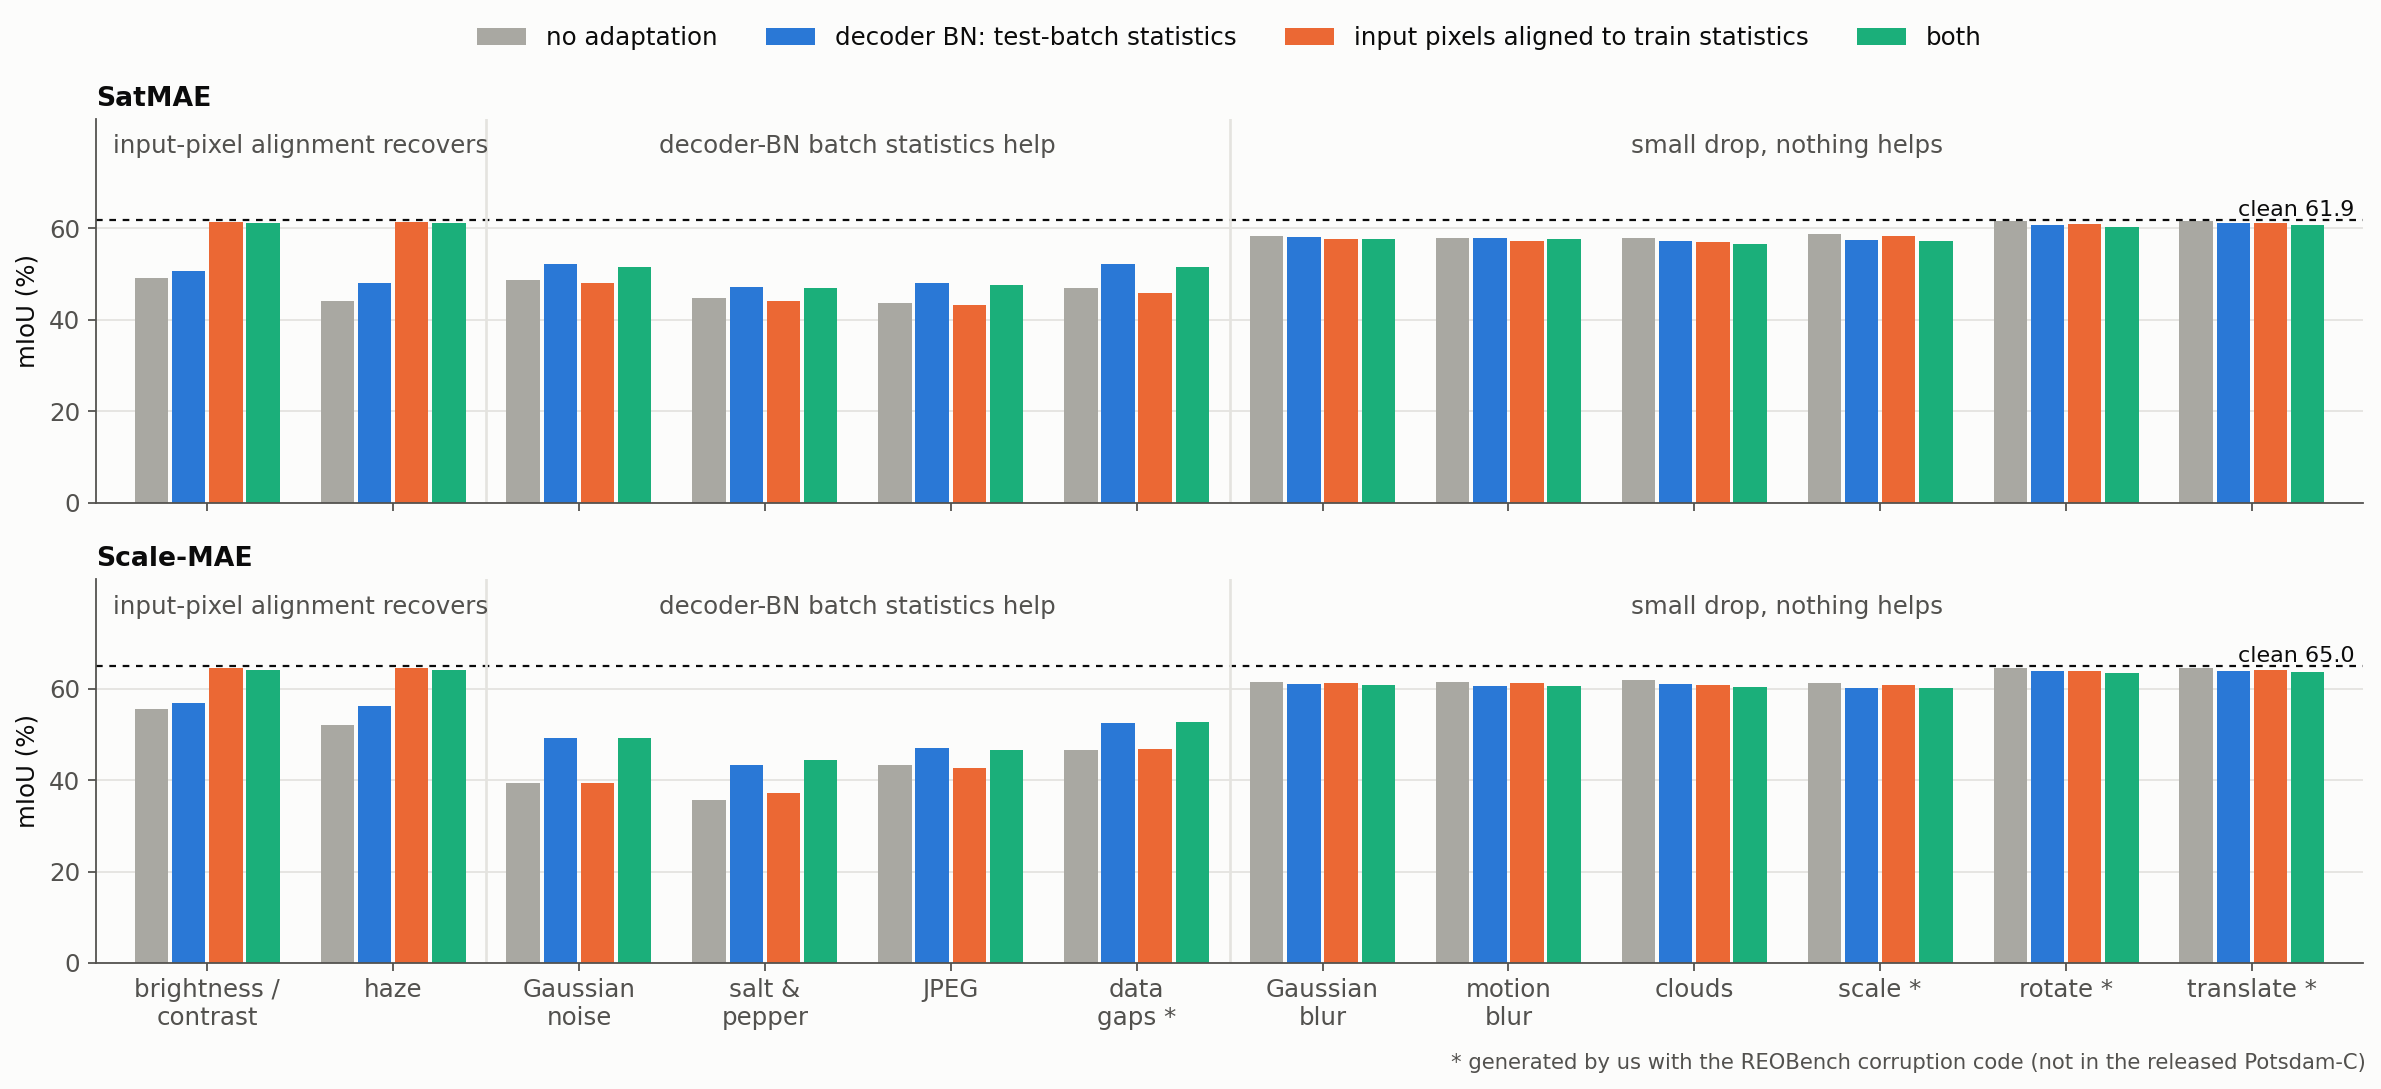
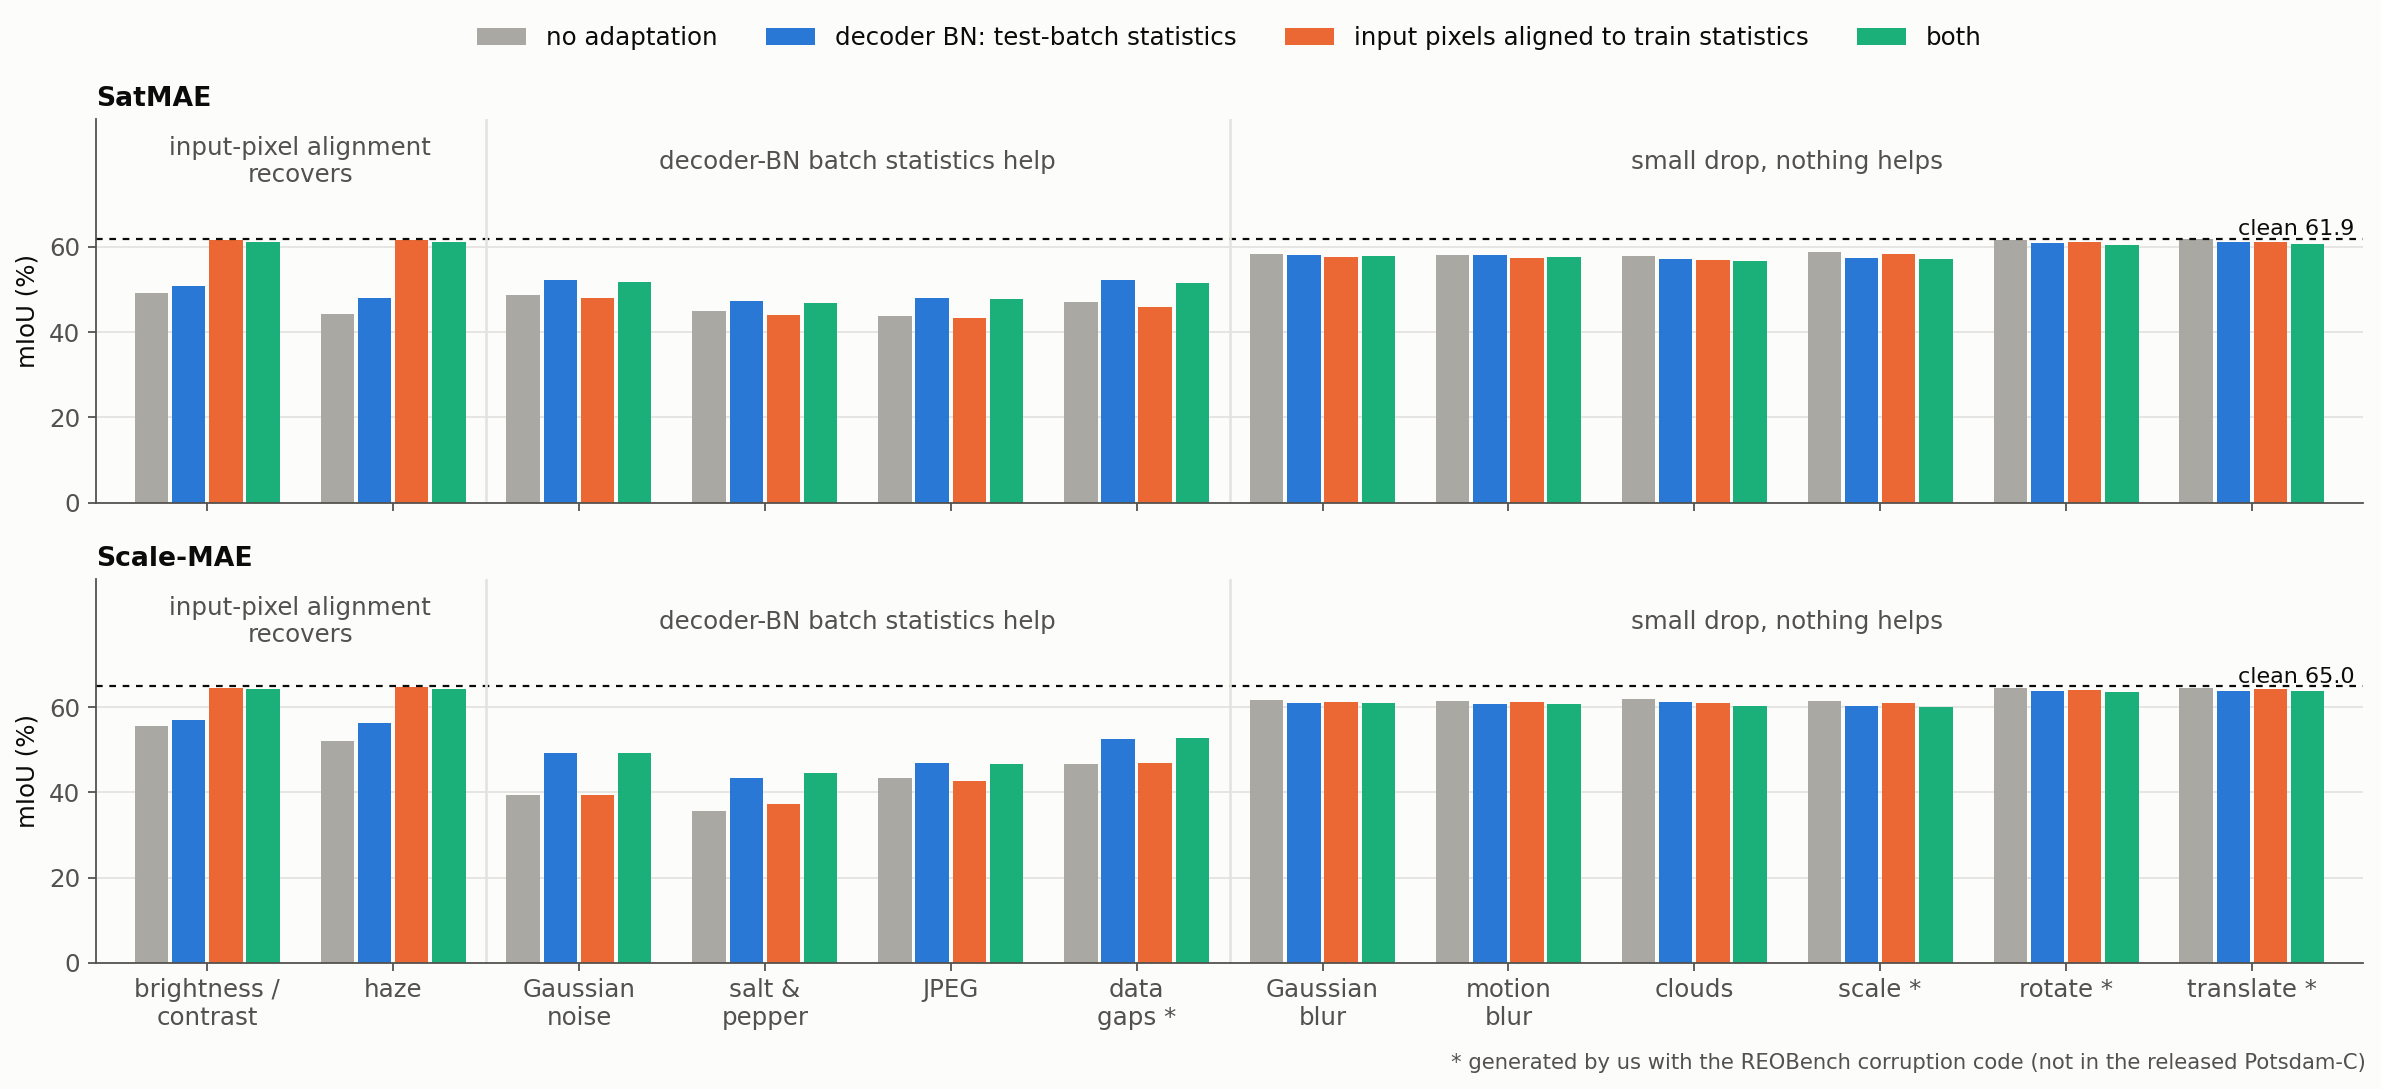
Midterm doc: re-check numbers against sources before the part 2 slides
T10 pair table uses unrounded differences (matches fig6) and gains the
Scale-MAE reference row; notes added to T1, T5, T9, T12 and section 6;
fig9 and fig10 redrawn to fix overlapping labels.

diff --git a/repro/scripts/analysis/plot_midterm_figs.py b/repro/scripts/analysis/plot_midterm_figs.py
@@ -5,7 +5,7 @@
   fig3_signals.png        : confidence vs accuracy and flip vs accuracy, three backbones on RESISC45-C
   fig4_em_phases.png      : entropy minimisation over 2,000 steps, tent vs DSBR: accuracy and predicted classes (T9)
   fig5_headroom.png       : per corruption: as is -> head-input standardization -> head re-fitted with labels -> clean (T12)
-  fig6_pairs.png          : satellite minus generic pretraining for the six matched pairs (T10)
+  fig6_pairs.png          : satellite minus generic pretraining for the seven pairs of T10
   fig7_blur_aug.png       : drop under Gaussian blur, backbones with / without blur augmentation (T7)
   fig8_corruptions.png    : one AID image under the 12 REOBench corruptions, grouped by acquisition stage (T6)
   fig9_seg.png            : Potsdam mIoU per corruption (12) for none / BN / input / input + BN alignment (T5)
@@ -275,7 +275,7 @@ def fig8(cls="Port", sev=3):
 
 def fig9():
     # 12 corruptions (8 released + 4 we generated), grouped by what responds
-    groups = (("input-pixel alignment recovers", (("brightness_contrast", "brightness /\ncontrast"), ("haze", "haze"))),
+    groups = (("input-pixel alignment\nrecovers", (("brightness_contrast", "brightness /\ncontrast"), ("haze", "haze"))),
               ("decoder-BN batch statistics help", (("gaussian_noise", "Gaussian\nnoise"), ("salt_and_pepper_noise", "salt &\npepper"),
                                       ("compression_artifacts", "JPEG"), ("data_gaps", "data\ngaps *"))),
               ("small drop, nothing helps", (("gaussian_blur", "Gaussian\nblur"), ("motion_blur", "motion\nblur"), ("clouds", "clouds"),
@@ -298,10 +298,10 @@ def fig9():
         for gi, (gname, g) in enumerate(groups):
             if gi:
                 ax.axvline(pos - 0.5, color=GRID, lw=1.2)
-            ax.text(pos + (len(g) - 1) / 2, 78, gname, ha="center", va="center", fontsize=11, color=INK2)
+            ax.text(pos + (len(g) - 1) / 2, 80, gname, ha="center", va="center", fontsize=11, color=INK2, linespacing=1.15)
             pos += len(g)
         ax.set_xlim(-0.6, len(cor) - 0.4)
-        ax.set_ylim(0, 84); ax.set_yticks([0, 20, 40, 60]); ax.set_ylabel("mIoU (%)"); ax.set_title(title, loc="left")
+        ax.set_ylim(0, 90); ax.set_yticks([0, 20, 40, 60]); ax.set_ylabel("mIoU (%)"); ax.set_title(title, loc="left")
         ax.grid(axis="y", color=GRID, lw=0.8); ax.set_axisbelow(True)
     axes[1].set_xticks(np.arange(len(cor))); axes[1].set_xticklabels(lab)
     axes[0].legend(loc="upper center", ncol=4, bbox_to_anchor=(0.5, 1.3))
@@ -378,7 +378,7 @@ def fig10(model="mae_in", ds="aid"):
     ax2.plot(x, sk[o], color=ORANGE, lw=2, marker="o", ms=4, label="predicted, corrupted")
     ax2.plot(x, sa[o], color=BLUE, lw=2, marker="o", ms=4, label="predicted, standardized")
     names = sorted(os.listdir(common.TRAIN_DIR))
-    ax2.annotate(f"{names[o[0]]}: {sk[o[0]]:.0f}% of predictions", xy=(0, sk[o[0]]), xytext=(4, sk[o[0]] * 0.92), fontsize=10,
+    ax2.annotate(f"{names[o[0]]}: {sk[o[0]]:.0f}% of predictions", xy=(0, sk[o[0]]), xytext=(4, sk[o[0]] * 0.70), fontsize=10,
                  arrowprops=dict(arrowstyle="-", color=INK2, lw=0.8))
     ax2.set_xlabel("classes, sorted by predicted share on the corrupted stream"); ax2.set_ylabel("share of images (%)")
     ax2.set_xticks([]); ax2.set_title("predictions collapse to a few classes; standardization spreads them again", loc="left", fontsize=11)
